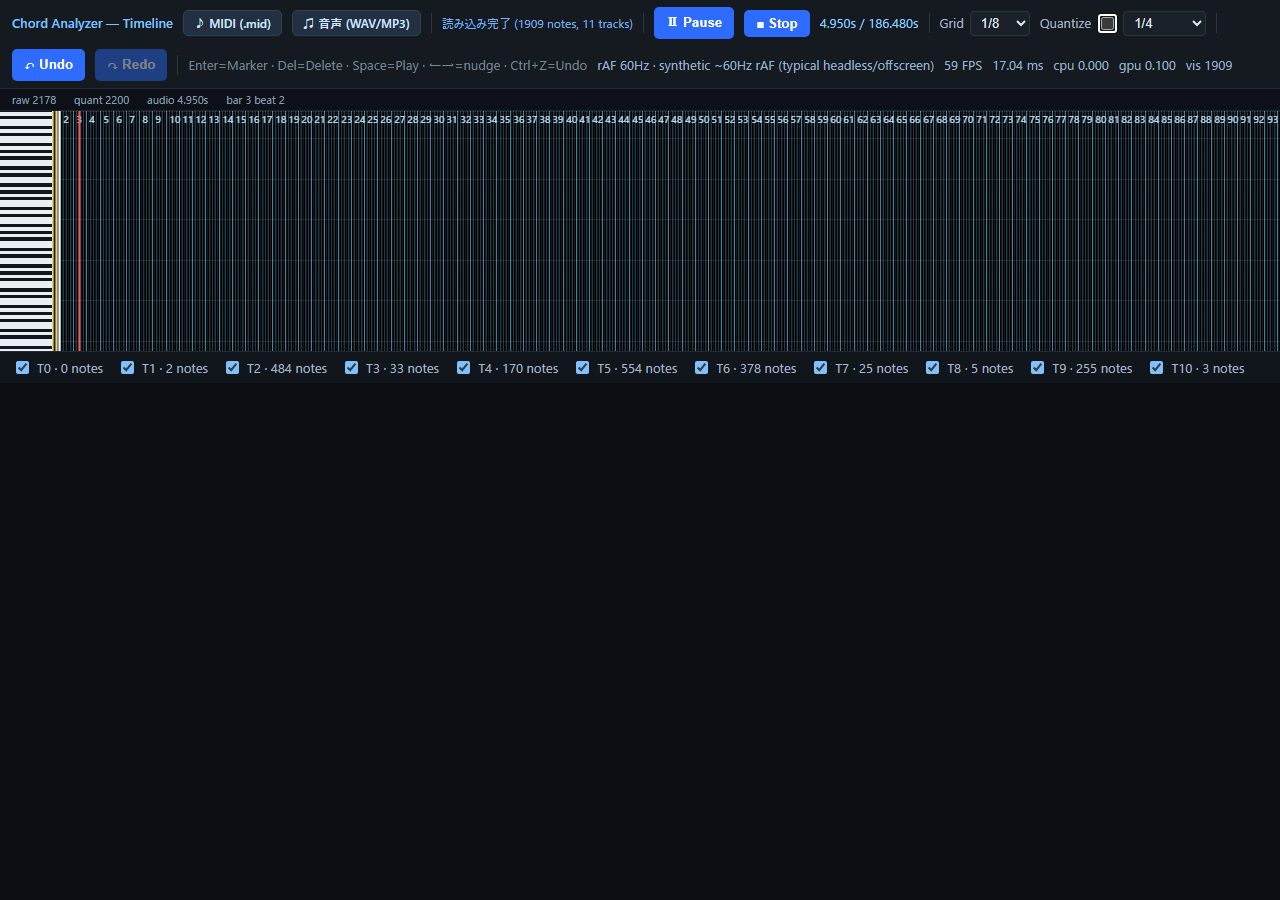
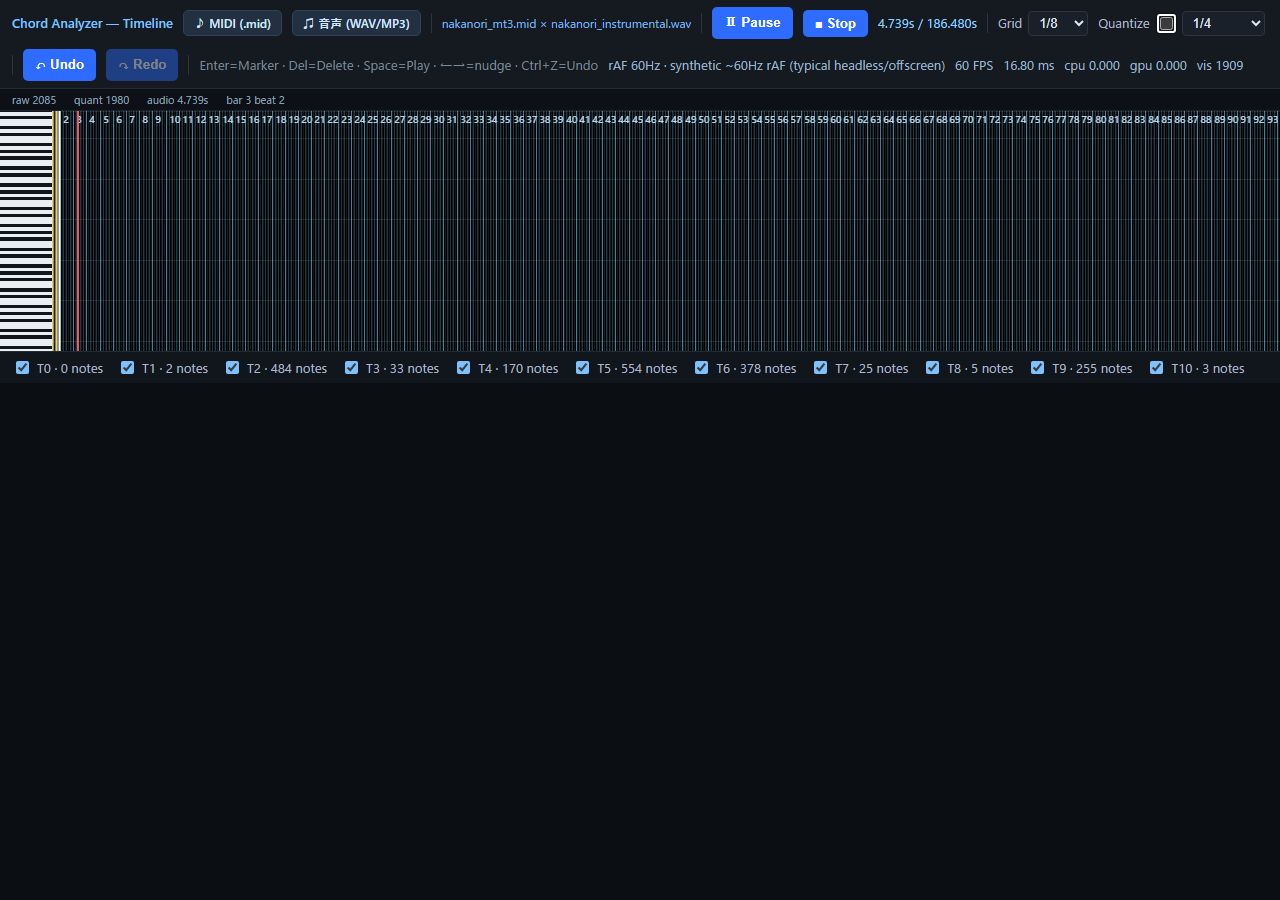
Phase4.2:クリップ

Changed region(s): [[0.0, 0.0, 0.9688, 0.0933]]

diff --git a/dist/assets/index-DIR23VNI.js b/dist/assets/index-DIR23VNI.js
@@ -1,0 +1,78 @@
+(function(){let e=document.createElement(`link`).relList;if(e&&e.supports&&e.supports(`modulepreload`))return;for(let e of document.querySelectorAll(`link[rel="modulepreload"]`))n(e);new MutationObserver(e=>{for(let t of e)if(t.type===`childList`)for(let e of t.addedNodes)e.tagName===`LINK`&&e.rel===`modulepreload`&&n(e)}).observe(document,{childList:!0,subtree:!0});function t(e){let t={};return e.integrity&&(t.integrity=e.integrity),e.referrerPolicy&&(t.referrerPolicy=e.referrerPolicy),t.credentials=e.crossOrigin===`use-credentials`?`include`:e.crossOrigin===`anonymous`?`omit`:`same-origin`,t}function n(e){if(e.ep)return;e.ep=!0;let n=t(e);fetch(e.href,n)}})();var e=class extends Error{constructor(e){super(e),this.name=`MidiParseError`}},t=class{bytes;view;p=0;constructor(e){this.bytes=e,this.view=new DataView(e.buffer,e.byteOffset,e.byteLength)}get pos(){return this.p}set pos(e){this.p=e}eof(){return this.p>=this.bytes.length}need(t,n){if(this.p+t>this.bytes.length)throw new e(`Unexpected end reading ${n}`)}u8(){return this.need(1,`u8`),this.bytes[this.p++]}u16(){this.need(2,`u16`);let e=this.view.getUint16(this.p);return this.p+=2,e}u32(){this.need(4,`u32`);let e=this.view.getUint32(this.p);return this.p+=4,e}vlq(){let e=0;for(let t=0;t<4;t++){let t=this.u8();if(e=e<<7|t&127,!(t&128))return e}return this.u8(),e&268435455}bytesN(e){this.need(e,`bytes`);let t=this.bytes.subarray(this.p,this.p+e);return this.p+=e,t}};function n(e){let t=e.vlq(),n=e.bytesN(t);try{return new TextDecoder(`utf-8`,{fatal:!1}).decode(n)}catch{return``}}function r(e,t){let n={};switch(e){case 81:t.length>=3&&(n.tempo=t[0]<<16|t[1]<<8|t[2]);break;case 88:t.length>=4&&(n.timeSig={tick:0,numerator:t[0],denominatorPower:t[1],clocksPerClick:t[2],notated32nd:t[3]})}return n}function i(i){let a=new t(i);if(a.u32()!==1297377380)throw new e(`Missing MThd header`);let o=a.u32();if(o<6)throw new e(`Invalid MThd length`);let s=a.u16();if(s>2)throw new e(`Unsupported SMF format ${s}`);let c=a.u16(),l=a.u16();a.pos=8+o;let u;if(l&32768){let e=l&255,t=l>>8&255;u=e>0?e*t:96}else u=l&32767;if(u<=0)throw new e(`Invalid PPQ division`);let d=[],f=[],p=[],m=[],h=0;for(let t=0;t<c&&!(a.eof()||a.u32()!==1297379947);t++){let i=a.u32(),o=a.pos+i,s={index:t,name:``,programsByChannel:new Map,noteCount:0,isPercussion:!1,channels:new Set},c=0,l=0,u=new Map;for(;a.pos<o;){l+=a.vlq();let i=a.u8();if(!(i&128)){if(c===0)throw new e(`Running status before first event`);--a.pos,i=c}if(i===255){let e=a.u8();if(e===3){let e=n(a);e&&(s.name=e)}else{let t=a.vlq(),n=r(e,a.bytesN(t));n?.tempo!==void 0&&p.push({tick:l,tempo:n.tempo}),n?.timeSig&&(n.timeSig.tick=l,m.push(n.timeSig))}c=0;continue}if(i===240||i===247){let e=a.vlq();a.bytesN(e),c=0;continue}if(i<240){let e=i&240,n=i&15;if(e===144||e===128){let r=a.u8(),o=a.u8(),d=`${n}:${r}`;if(e===144&&o>0){let e=u.get(d);e||(e=[],u.set(d,e)),e.push({start:l,vel:o})}else{let e=u.get(d);if(e&&e.length>0){let i=e.shift();l>i.start&&(f.push({startTick:i.start,endTick:l,pitch:r,velocity:i.vel,channel:n,track:t}),h=Math.max(h,l),s.noteCount++,s.channels.add(n),n===9&&(s.isPercussion=!0))}}c=i}else if(e===192){let e=a.u8();s.programsByChannel.set(n,e),c=i}else{let t=e===208?1:2;a.bytesN(t),c=i}}else c=i}for(let[e,n]of u){if(n.length===0)continue;let r=e.indexOf(`:`),i=Number(e.slice(0,r)),a=Number(e.slice(r+1));for(let e of n)f.push({startTick:e.start,endTick:e.start+1,pitch:a,velocity:e.vel,channel:i,track:t}),s.noteCount++,s.channels.add(i),i===9&&(s.isPercussion=!0)}d.push(s)}return f.sort((e,t)=>e.startTick-t.startTick||e.track-t.track||e.pitch-t.pitch),f.length&&(h=Math.max(h,f[f.length-1].startTick+1)),{format:s,ppq:u,tempos:p,timeSignatures:m,tracks:d,notes:f,durationTicks:h}}function a(e){let t=Array.isArray(e)?e:e.notes,n=t.length,r=new Float32Array(n),i=new Float32Array(n),a=new Float32Array(n),o=new Float32Array(n),s=new Float32Array(n),c=new Float32Array(n),l=new Int32Array(n),u=1/0,d=-1/0,f=0,p=new Set;for(let e=0;e<n;e++){let n=t[e];r[e]=n.startTick,i[e]=n.endTick,a[e]=n.pitch,o[e]=n.velocity/127,s[e]=n.track,c[e]=n.channel,l[e]=e,p.add(n.track),n.startTick<u&&(u=n.startTick),n.endTick>d&&(d=n.endTick);let m=n.endTick-n.startTick;m>f&&(f=m)}if(n===0&&(u=0,d=0),t.length>1){let e=Array.from(l);e.sort((e,t)=>r[e]-r[t]||s[e]-s[t]||a[e]-a[t]),l.set(e)}let m=Array.from(p).sort((e,t)=>e-t),h=new Int32Array(m.length),g=-1;for(let e=0;e<n;e++){let t=s[l[e]];t!==g&&(g=t,h[m.indexOf(t)]=e)}let ee=m.length;return{startTicks:r,endTicks:i,pitches:a,velocities:o,tracks:s,channels:c,order:l,count:n,minTick:u,maxTick:d<0?0:d,maxDur:f===1/0?0:f,trackStartOrder:h,trackCount:ee}}var o=`#version 300 es
+precision highp float;
+layout(location=0) in vec2 aQuad;   // unit quad 0..1
+layout(location=1) in vec4 aRect;   // (startTick, endTick, pitch, velocity01)
+uniform float uPxPerTick;
+uniform float uScrollTick;   // tick at left edge of viewport
+uniform float uPxPerPitch;
+uniform float uTopPitch;     // pitch (MIDI number) at top edge
+uniform vec2  uViewport;     // canvas size in px
+out vec3 vColor;
+void main() {
+  float x  = mix(aRect.x, aRect.y, aQuad.x);
+  float px = (x - uScrollTick) * uPxPerTick;
+  float py = (aRect.z - uTopPitch) * uPxPerPitch;
+  vec2 n = vec2(px, py) / uViewport * 2.0 - vec2(1.0, 1.0);
+  gl_Position = vec4(n.x, -n.y, 0.0, 1.0); // y down in canvas -> flip so pitch up
+  vColor = vec3(0.30, 0.75, 1.00) * (0.45 + 0.55 * aRect.w);
+}
+`,s=`#version 300 es
+precision highp float;
+in vec3 vColor;
+out vec4 fragColor;
+void main(){ fragColor = vec4(vColor, 1.0); }
+`,c=new Float32Array([0,0,1,0,0,1,0,1,1,0,1,1]);function l(e,t){let n=e.order,r=e.startTicks,i=e.count,a=0,o=i;for(;a<o;){let e=a+o>>1;r[n[e]]<t?a=e+1:o=e}return a}var u=class{gl;cpuUpdateMs=0;drawMs=0;lastVisible=0;lastUploadBytes=0;program;uniforms={};vao;quadVbo;instVbo;scratch=new Float32Array;scratchCap=0;lastVisibleUploaded=-1;constructor(e){this.gl=e,this.program=this.link();for(let t of[`uPxPerTick`,`uScrollTick`,`uPxPerPitch`,`uTopPitch`,`uViewport`])this.uniforms[t]=e.getUniformLocation(this.program,t);this.vao=e.createVertexArray(),e.bindVertexArray(this.vao),this.quadVbo=e.createBuffer(),e.bindBuffer(e.ARRAY_BUFFER,this.quadVbo),e.bufferData(e.ARRAY_BUFFER,c,e.STATIC_DRAW),e.enableVertexAttribArray(0),e.vertexAttribPointer(0,2,e.FLOAT,!1,8,0),this.instVbo=e.createBuffer(),e.bindBuffer(e.ARRAY_BUFFER,this.instVbo),e.bufferData(e.ARRAY_BUFFER,65536,e.DYNAMIC_DRAW),e.enableVertexAttribArray(1),e.vertexAttribPointer(1,4,e.FLOAT,!1,16,0),e.vertexAttribDivisor(1,1),e.bindVertexArray(null)}compile(e,t){let n=this.gl,r=n.createShader(e);if(n.shaderSource(r,t),n.compileShader(r),!n.getShaderParameter(r,n.COMPILE_STATUS))throw Error(`shader: `+n.getShaderInfoLog(r));return r}link(){let e=this.gl,t=this.compile(e.VERTEX_SHADER,o),n=this.compile(e.FRAGMENT_SHADER,s),r=e.createProgram();if(e.attachShader(r,t),e.attachShader(r,n),e.linkProgram(r),!e.getProgramParameter(r,e.LINK_STATUS))throw Error(`link: `+e.getProgramInfoLog(r));return e.deleteShader(t),e.deleteShader(n),r}uploadNotes(e){this.lastVisibleUploaded=-1}trackVisible=null;setTrackVisibility(e){this.trackVisible=e,this.lastVisibleUploaded=-1}cull(e,t,n){let r=e.order,i=e.startTicks,a=e.endTicks,o=this.trackVisible,s=l(e,t-e.maxDur),c=l(e,n+1e-9),u=0,d=this.scratch;for(let n=s;n<c;n++){let s=r[n];if(a[s]<t||o&&!o[e.tracks[s]])continue;let c=u*4;d[c+0]=i[s],d[c+1]=a[s],d[c+2]=e.pitches[s],d[c+3]=e.velocities[s],u++}return this.lastVisible=u,u}draw(e,t){let n=this.gl,r=t.scrollStartTick,i=r+t.viewportWidth/t.pxPerTick,a=l(e,r-e.maxDur),o=(l(e,i+1e-9)-a)*4;o>this.scratchCap&&(this.scratchCap=Math.max(this.scratchCap*2,o,4096),this.scratch=new Float32Array(this.scratchCap));let s=performance.now(),c=this.cull(e,r,i);this.cpuUpdateMs=performance.now()-s,(c!==this.lastVisibleUploaded||c===0)&&(c>0&&(n.bindBuffer(n.ARRAY_BUFFER,this.instVbo),n.bufferSubData(n.ARRAY_BUFFER,0,this.scratch.subarray(0,c*4),0),this.lastUploadBytes=c*16),this.lastVisibleUploaded=c);let u=performance.now();n.useProgram(this.program),n.uniform1f(this.uniforms.uPxPerTick,t.pxPerTick),n.uniform1f(this.uniforms.uScrollTick,t.scrollStartTick),n.uniform1f(this.uniforms.uPxPerPitch,t.pxPerPitch),n.uniform1f(this.uniforms.uTopPitch,t.topPitch),n.uniform2f(this.uniforms.uViewport,t.viewportWidth,t.viewportHeight),n.bindVertexArray(this.vao),n.viewport(0,0,t.viewportWidth,t.viewportHeight),c>0&&n.drawArraysInstanced(n.TRIANGLES,0,6,c),n.bindVertexArray(null),this.drawMs=performance.now()-u}},d=class{arrayBuffer;onEnded;ctx=null;buffer=null;source=null;baseOffset=0;scheduledAt=0;_playing=!1;get playing(){return this._playing}set playing(e){this._playing=e}constructor(e){this.arrayBuffer=e}ensureCtx(){if(this.ctx)return this.ctx;let e=window.AudioContext??window.webkitAudioContext;return this.ctx=new e({latencyHint:`interactive`}),this.ctx}async load(){let e=this.ensureCtx();e.state===`suspended`&&e.resume().catch(()=>{});let t=this.arrayBuffer.slice(0);this.buffer=await e.decodeAudioData(t)}clockPosition(){if(!this.ctx||!this.playing||!this.source)return this.baseOffset;let e=this.ctx.currentTime;return this.baseOffset+(e-this.scheduledAt)-this.outputLatencyOf()}outputLatencyOf(){return this.ctx.outputLatency||0}spawn(){let e=this.ctx;this.source=e.createBufferSource(),this.source.buffer=this.buffer;let t=e.createGain();t.gain.value=1,this.source.connect(t),t.connect(e.destination),this.source.onended=()=>{this.source=null,this.playing&&=!1,this.onEnded?.()}}play(){if(!this.buffer||!this.ctx)return;let e=this.ctx;e.state===`suspended`&&e.resume(),this.source&&this.source.stop(),this.spawn(),this.scheduledAt=e.currentTime+.05,this.source.start(this.scheduledAt,this.baseOffset),this.playing=!0}pause(){!this.playing||!this.source||!this.ctx||(this.baseOffset=Math.max(0,Math.min(this.duration,this.clockPosition())),this.source.stop(),this.source=null,this.playing=!1)}stop(){this.source&&=(this.source.stop(),null),this.baseOffset=0,this.playing=!1}seek(e){if(this.baseOffset=Math.max(0,Math.min(this.duration,e)),this.playing){this.source?.stop(),this.source=null,this.spawn();let e=this.ctx;this.scheduledAt=e.currentTime+.05,this.source.start(this.scheduledAt,this.baseOffset)}}getPositionSeconds(){return Math.max(0,Math.min(this.duration,this.clockPosition()))}getSnapshot(){return{positionSeconds:this.getPositionSeconds(),playing:this.playing,durationSeconds:this.duration}}get duration(){return this.buffer?.duration??0}get loaded(){return this.buffer!==null}dispose(){this.source&&=(this.source.stop(),null),this.ctx&&this.ctx.close(),this.ctx=null}};function f(e){let t=e.ppq>0?e.ppq:480,n=[...e.tempos].sort((e,t)=>e.tick-t.tick),r=[],i=[];if(n.length&&n[0].tick===0){r.push(0),i.push(n[0].tempo);for(let e=1;e<n.length;e++)n[e].tick>n[e-1].tick&&(r.push(n[e].tick),i.push(n[e].tempo))}else{r.push(0),i.push(n.length?n[0].tempo:5e5);for(let e of n)e.tick>0&&(r.push(e.tick),i.push(e.tempo))}let a=Array(r.length).fill(0);for(let e=1;e<r.length;e++){let n=r[e]-r[e-1];a[e]=a[e-1]+n/t*(i[e-1]/1e6)}let o=0;if(r.length===1)o=e.durationTicks/t*(i[0]/1e6);else{let n=r.length-1;o=a[n]+(e.durationTicks-r[n])/t*(i[n]/1e6)}let s=i.every(e=>e===i[0]);return{boundaryTicks:r,tempos:i,cumSeconds:a,ppq:t,durationTicks:e.durationTicks,durationSeconds:o,constantTempo:s?i[0]:null,defaultTempo:i[0]}}function p(e,t){let n=e.boundaryTicks,r=0,i=n.length-1;for(;r<i;){let e=r+i+1>>1;n[e]<=t?r=e:i=e-1}return r}function m(e,t){if(e.constantTempo!==null)return t/e.ppq*(e.constantTempo/1e6);let n=Math.max(0,Math.min(e.durationTicks,t)),r=p(e,n);return e.cumSeconds[r]+(n-e.boundaryTicks[r])/e.ppq*(e.tempos[r]/1e6)}function h(e,t){let n=Math.max(0,Math.min(e.durationSeconds,t));if(e.constantTempo!==null)return Math.round(n*e.ppq*1e6/e.constantTempo);for(let t=e.boundaryTicks.length-1;t>=0;t--){let r=e.cumSeconds[t];if(n>=r){let i=n-r,a=e.boundaryTicks[t]+Math.round(i*e.ppq*1e6/e.tempos[t]);return Math.max(0,a)}}return 0}function g(e,t,n,r){let i=Math.max(1,n),a=t,o=a*i,s=e/a,c=Math.floor(s/i)*i,l=Math.floor(s)%i;return{bar:Math.floor(s/i)+1,beat:l+1,beatTick:Math.floor(e%a),barStartTick:Math.round(c*a),ticksPerBar:o}}function ee(e=4,t=2,n=480,r=8){return{numerator:e,denominatorPower:t,ppq:n,divisionsPerBar:r}}function _(e,t,n){let r=[],i=e.ppq,a=Math.max(1,e.numerator),o=i*a,s=Math.max(1,Math.round(o/Math.max(1,e.divisionsPerBar))),c=Math.floor(t/o)*o;for(let e=c;e<n;e+=s){let t=(e%o+o)%o,n=g(e,i,a,2),c;c=t===0?`bar`:t%i===0?`beat`:`division`,r.push({tick:e,kind:c,bar:n.bar,beat:n.beat}),t!==0&&t+s>o&&(e+=o-t-s)}return v(r)}function v(e){let t=[],n=-1;for(let r of e)r.tick!==n&&(n=r.tick,t.push(r));return t}function y(e={}){return{scrollTick:e.scrollTick??0,pxPerTick:e.pxPerTick??1,topPitch:e.topPitch??127,pxPerPitch:e.pxPerPitch??8}}function b(e,t){return(t-e.scrollTick)*e.pxPerTick}function te(e,t){let n=e.scrollTick+t/e.pxPerTick;return n<0?0:n}function x(e,t){let n=(e.topPitch-t)*e.pxPerPitch;return n<0&&(n=0),n}function ne(e,t){return e.topPitch-t/e.pxPerPitch}function re(e,t){let n=Math.max(1,t.ppq),r;if(e===`1/4`)r=n;else if(e===`1/8`)r=n/2;else if(e===`1/16`)r=n/4;else if(e===`1/32`)r=n/8;else{let i=Math.max(1,Math.round(e.barDivisions));r=n*Math.max(1,t.numerator)/i}return Math.max(1,Math.round(r))}function S(e,t,n){let r=re(t,n);return{rawTick:e,quantizedTick:Math.max(0,Math.round(Math.max(0,Math.round(e))/r)*r)}}function ie(e){return e===`1/4`?`1/4`:e===`1/8`?`1/8`:e===`1/16`?`1/16`:e===`1/32`?`1/32`:`bar/${e.barDivisions}`}var C={ppq:480,numerator:4};function w(e,t,n,r=C){let i=S(t,n.division,r).quantizedTick;return{id:e,rawTick:t,quantizedTick:n.enabled?i:t,quantizeEnabled:n.enabled,quantizeDivision:n.division}}function T(e,t,n=C){let r=S(e.rawTick,t.division,n).quantizedTick;return{...e,quantizedTick:t.enabled?r:e.rawTick,quantizeEnabled:t.enabled,quantizeDivision:t.division}}function ae(e){if(e.length<2)return[];let t=[...e].sort((e,t)=>E(e)-E(t)),n=[];for(let e=0;e<t.length-1;e++){let r=t[e],i=t[e+1];n.push({id:e,startTick:E(r),endTick:E(i),startMarkerId:r.id,endMarkerId:i.id})}return n}function E(e){return e.quantizeEnabled?e.quantizedTick:e.rawTick}var D={barLine:`rgba(120,210,255,0.60)`,beatLine:`rgba(120,210,255,0.28)`,divLine:`rgba(120,210,255,0.12)`,barText:`rgba(210,235,255,0.95)`,playhead:`rgba(255,90,95,0.95)`,octaveLine:`rgba(255,255,255,0.10)`,keyBg:`#0c1620`,whiteKey:`#e9eef5`,blackKey:`#11161d`,marker:`rgba(255,214,120,0.95)`,markerSelected:`rgba(255,255,255,1)`,region:`rgba(120,210,120,0.18)`};function oe(e,t,n,r,i,a=D){e.clearRect(0,0,t.viewportWidth,t.viewportHeight);let o=_(n,Math.floor(r.left),Math.ceil(r.right));e.lineWidth=1;for(let n of o){let r=Math.round(b(t,n.tick))+.5;r<-1||r>t.viewportWidth+1||(e.strokeStyle=n.kind===`bar`?a.barLine:n.kind===`beat`?a.beatLine:a.divLine,e.beginPath(),e.moveTo(r,0),e.lineTo(r,t.viewportHeight),e.stroke(),n.kind===`bar`&&(e.fillStyle=a.barText,e.font=`10px system-ui`,e.fillText(String(n.bar),r+3,12)))}let s=t.topPitch,c=t.topPitch-t.viewportHeight/t.pxPerPitch,l=Math.floor(Math.min(s,c)/12)*12,u=Math.ceil(Math.max(s,c)/12)*12;for(let n=l;n<=u;n+=12){if(n<0||n>127)continue;let r=x(t,n);e.strokeStyle=a.octaveLine,e.beginPath(),e.moveTo(0,Math.round(r)+.5),e.lineTo(t.viewportWidth,Math.round(r)+.5),e.stroke()}let d=b(t,i);e.strokeStyle=a.playhead,e.lineWidth=2,e.beginPath(),e.moveTo(d,0),e.lineTo(d,t.viewportHeight),e.stroke()}function se(e,t,n,r,i,a=D){e.fillStyle=a.region;for(let n of r){let r=b(t,n.startTick),i=b(t,n.endTick);i<0||r>t.viewportWidth||e.fillRect(r,0,Math.max(1,i-r),t.viewportHeight)}e.lineWidth=2;for(let r of n){let n=E(r),o=Math.round(b(t,n))+.5;o<-2||o>t.viewportWidth+2||(e.strokeStyle=r.id===i?a.markerSelected:a.marker,e.beginPath(),e.moveTo(o,0),e.lineTo(o,t.viewportHeight),e.stroke())}}function ce(e,t,n=D){let r=e.getContext(`2d`);if(!r)return;let i=e.width,a=e.height;r.clearRect(0,0,i,a),r.fillStyle=n.keyBg,r.fillRect(0,0,i,a);let o=t.topPitch,s=o-a/t.pxPerPitch,c=Math.floor(Math.min(o,s)),l=Math.ceil(Math.max(o,s)),u=[1,3,6,8,10];for(let e=l;e>=c;e--){let a=x(t,e);r.fillStyle=!(e<0)&&u.includes(e%12)?n.blackKey:n.whiteKey,r.fillRect(0,Math.round(a)-Math.round(t.pxPerPitch/2),i,Math.ceil(t.pxPerPitch)+1)}}var le=class{times;index=0;count=0;constructor(e=8192){this.times=new Float64Array(e)}reset(){this.index=0,this.count=0}push(e){this.times[this.index]=e,this.index=(this.index+1)%this.times.length,this.count<this.times.length&&this.count++}snapshot(){let e=new Float64Array(this.count);if(this.count===0)return e;let t=this.count<this.times.length?0:this.index;for(let n=0;n<this.count;n++)e[n]=this.times[(t+n)%this.times.length];return e}p(e){let t=this.count;if(t===0)return 0;let n=[...this.snapshot()].sort((e,t)=>e-t),r=Math.floor(e*(t-1));return n[Math.max(0,Math.min(t-1,r))]}lowK(e){let t=this.count;if(t===0)return 0;let n=[...this.snapshot()].sort((e,t)=>e-t),r=Math.min(t-1,Math.floor((1-e/100)*t));return n[Math.max(0,r)]}mean(){if(this.count===0)return 0;let e=0;for(let t=0;t<this.count;t++)e+=this.times[t];return e/this.count}max(){let e=0;for(let t=0;t<this.count;t++)this.times[t]>e&&(e=this.times[t]);return e}get size(){return this.count}computeStats(){return{frames:this.count,avgFps:this.count?1e3/this.mean():0,avgMs:this.mean(),p1LowMs:this.lowK(1),p01LowMs:this.lowK(.1),p50Ms:this.p(.5),p99Ms:this.p(.99),maxMs:this.max()}}},ue=240;function de(){let e=[],t=performance.now(),n=0,r=!0,i=a=>{if(!r)return;let o=a-t;t=a,o>0&&o<100&&e.push(o),e.length>ue&&e.shift(),n=requestAnimationFrame(i)};return n=requestAnimationFrame(i),{stop:()=>{r=!1,cancelAnimationFrame(n)},stats:()=>{if(e.length===0)return{observedHz:0,medianMs:0,p95Ms:0,sampleCount:0,notes:`no samples yet`};let t=[...e].sort((e,t)=>e-t),n=t[Math.floor(t.length/2)],r=t[Math.min(t.length-1,Math.floor(t.length*.95))];return{observedHz:1e3/(e.reduce((e,t)=>e+t,0)/e.length),medianMs:Number(n.toFixed(2)),p95Ms:Number(r.toFixed(2)),sampleCount:e.length,notes:fe(n)}}}}function fe(e){return e<10.5?`display-driven rAF (~display refresh >60Hz)`:e<18?`synthetic ~60Hz rAF (typical headless/offscreen)`:`irregular rAF (VSync off / blocked main thread)`}var pe=class{layout={enabled:!0,division:{barDivisions:8}};markers=[];selectedId=null;nextId=1;undoStack=[];redoStack=[];get canUndo(){return this.undoStack.length>0}get canRedo(){return this.redoStack.length>0}get undoDepth(){return this.undoStack.length}addMarker(e){let t=this.nextId++,n=w(t,e,this.layout,C);return this.markers.push(n),this.selectedId=t,this.undoStack.push({kind:`add`,marker:n}),this.redoStack=[],n}deleteMarker(e){let t=this.markers.findIndex(t=>t.id===e);if(t<0)return!1;let n=this.markers[t];return this.markers.splice(t,1),this.selectedId===e&&(this.selectedId=null),this.undoStack.push({kind:`delete`,marker:n,at:t}),this.redoStack=[],!0}select(e){this.selectedId=e}moveMarker(e,t){let n=this.markers.findIndex(t=>t.id===e);if(n<0)return;let r=this.markers[n];this.markers[n]=T({...r,rawTick:t},this.layout,C),this.undoStack.push({kind:`move`,id:e,fromRaw:r.rawTick,toRaw:t}),this.redoStack=[]}setLayout(e){let t=this.layout;me(t,e)||(this.layout={...e},this.markers=this.markers.map(t=>e.enabled?T(t,e,C):{...t,quantizeEnabled:!1,quantizedTick:t.rawTick}),this.undoStack.push({kind:`changeQuantize`,previous:t,next:{...e}}),this.redoStack=[])}undo(){let e=this.undoStack.pop();if(!e)return!1;switch(e.kind){case`add`:{let t=this.markers.findIndex(t=>t.id===e.marker.id);t>=0&&this.markers.splice(t,1),this.selectedId===e.marker.id&&(this.selectedId=null);break}case`delete`:this.markers.splice(e.at,0,e.marker),this.selectedId=e.marker.id;break;case`move`:this.markers=this.markers.map(t=>t.id===e.id?T({...t,rawTick:e.fromRaw},this.layout,C):t);break;case`changeQuantize`:this.layout={...e.previous},this.markers=this.markers.map(t=>e.previous.enabled?T(t,this.layout,C):{...t,quantizeEnabled:!1,quantizedTick:t.rawTick})}return this.redoStack.push(e),!0}redo(){let e=this.redoStack.pop();if(!e)return!1;switch(e.kind){case`add`:this.markers.push(e.marker),this.selectedId=e.marker.id;break;case`delete`:{let t=this.markers.findIndex(t=>t.id===e.marker.id);t>=0&&this.markers.splice(t,1);break}case`move`:this.markers=this.markers.map(t=>t.id===e.id?T({...t,rawTick:e.toRaw},this.layout,C):t);break;case`changeQuantize`:this.layout={...e.next},this.markers=this.markers.map(t=>e.next.enabled?T(t,this.layout,C):{...t,quantizeEnabled:!1,quantizedTick:t.rawTick})}return this.undoStack.push(e),!0}clear(){this.markers=[],this.selectedId=null,this.nextId=1,this.undoStack=[],this.redoStack=[]}};function me(e,t){return e.enabled===t.enabled?e.division===t.division?!0:typeof e.division==`string`||typeof t.division==`string`?e.division===t.division:e.division.barDivisions===t.division.barDivisions:!1}var he=34,ge=103;function _e(e){e.innerHTML=`
+    <div id="wrap">
+      <div id="topbar">
+        <span class="brand">Chord Analyzer — Timeline</span>
+        <label class="btn-file">♪ MIDI (.mid)
+          <input type="file" id="midiFile" accept=".mid,.midi,.smf,audio/midi,audio/x-midi" />
+        </label>
+        <label class="btn-file">♫ 音声 (WAV/MP3)
+          <input type="file" id="audioFile" accept=".wav,.mp3,.ogg,.flac,.m4a,audio/*" />
+        </label>
+        <span class="sep"></span>
+        <span id="loadStatus">MIDI / 音声ファイルを選択してください</span>
+        <span class="sep"></span>
+        <button id="playBtn" disabled>▶ Play</button>
+        <button id="stopBtn" disabled>■ Stop</button>
+        <span id="pos">0.000s / 0.000s</span>
+        <span class="sep"></span>
+        <label>Grid <select id="gridSel">
+          <option value="4">1/4</option><option value="8" selected>1/8</option>
+          <option value="16">1/16</option><option value="32">1/32</option>
+        </select></label>
+        <label>Quantize
+          <input type="checkbox" id="quantToggle" checked />
+          <select id="quantSel">
+            <option value="bar/8" selected>1 bar / 8</option>
+            <option value="1/4">1/4</option>
+            <option value="1/8">1/8</option>
+            <option value="1/16">1/16</option>
+            <option value="1/32">1/32</option>
+          </select>
+        </label>
+        <span class="sep"></span>
+        <button id="undoBtn" disabled>↶ Undo</button>
+        <button id="redoBtn" disabled>↷ Redo</button>
+        <span class="sep"></span>
+        <span class="keyhint">Enter=Marker · Del=Delete · Space=Play · ←→=nudge · Ctrl+Z=Undo</span>
+        <span id="raf">rAF —</span>
+        <span id="fps">— FPS</span>
+        <span id="fr">— ms</span>
+        <span id="cpu">cpu —</span>
+        <span id="gpu">gpu —</span>
+        <span id="vis">vis —</span>
+      </div>
+      <div id="debugbar">
+        <span class="dbg" id="dbgRaw">raw —</span>
+        <span class="dbg" id="dbgQuant">quant —</span>
+        <span class="dbg" id="dbgAudio">audio —</span>
+        <span class="dbg" id="dbgBar">bar/beat —</span>
+      </div>
+      <div id="stage">
+        <div id="pianoWrap"><canvas id="piano"></canvas></div>
+        <div id="timelineWrap"><canvas id="gl"></canvas><canvas id="overlay"></canvas></div>
+      </div>
+      <div id="trackbar"></div>
+    </div>`;let t=t=>e.querySelector(`#`+t),n=t(`midiFile`),r=t(`audioFile`),o=t(`loadStatus`),s=t(`playBtn`),c=t(`stopBtn`),l=t(`undoBtn`),p=t(`redoBtn`),_=t(`pos`),v=t(`gl`),b=t(`overlay`),x=t(`piano`),re=t(`topbar`),C=t(`debugbar`),w=t(`trackbar`),T=t(`fps`),E=t(`fr`),D=t(`cpu`),ue=t(`gpu`),fe=t(`vis`),me=t(`raf`),_e=t(`dbgRaw`),ve=t(`dbgQuant`),ye=t(`dbgAudio`),be=t(`dbgBar`),O=t(`quantToggle`),k=t(`quantSel`),xe=t(`gridSel`),A=()=>{let e=t(`wrap`),n=Math.max(200,e.clientWidth-52),r=Math.max(240,e.clientHeight-re.offsetHeight-C.offsetHeight-w.offsetHeight);for(let e of[v,b])e.width=n,e.height=r,e.style.width=n+`px`,e.style.height=r+`px`;x.width=52,x.height=r,x.style.height=r+`px`};A(),window.addEventListener(`resize`,A);let j=v.getContext(`webgl2`,{antialias:!0,alpha:!1});if(!j){s.textContent=`No WebGL2`;return}j.clearColor(.08,.085,.11,1),j.enable(j.BLEND),j.blendFunc(j.SRC_ALPHA,j.ONE_MINUS_SRC_ALPHA);let M=new u(j),N=new le(360),Se=de(),P,F=null,I=null,L=y({scrollTick:0,pxPerTick:.2,topPitch:104,pxPerPitch:6}),R=[],z=0,Ce=8,B=new pe,V=[],H=480,we=()=>({scrollStartTick:L.scrollTick,pxPerTick:L.pxPerTick,topPitch:L.topPitch,pxPerPitch:L.pxPerPitch,viewportWidth:v.width,viewportHeight:v.height}),Te=[];function Ee(e){w.innerHTML=``;for(let t=0;t<e;t++){let e=document.createElement(`label`);e.className=`trackRow`;let n=document.createElement(`input`);n.type=`checkbox`,n.checked=!0;let r=document.createElement(`span`);r.textContent=`T${t} · ${Te[t]??0} notes`,n.addEventListener(`change`,()=>{R[t]=n.checked,M.setTrackVisibility([...R])}),e.append(n,r),w.appendChild(e)}}let De=!1;function Oe(e,t){try{let n=i(new Uint8Array(e));F=f(n),P=a(n.notes),Y=1/0,X=-1/0;for(let e=0;e<P.count;e++){let t=P.pitches[e];t<Y&&(Y=t),t>X&&(X=t)}isFinite(Y)||(Y=he,X=ge),H=n.ppq,R=Array.from({length:n.tracks.length},()=>!0),Te=n.tracks.map(e=>e.noteCount),M.uploadNotes(P),M.setTrackVisibility(R);let r=v.height/(X-Y+2);L=y({scrollTick:P.minTick,pxPerTick:v.width/Math.max(1,P.maxTick-P.minTick),topPitch:X+1,pxPerPitch:r}),L=Z(L),Ee(n.tracks.length),o.textContent=`${t} · ${n.notes.length} notes / ${n.tracks.length} tracks`+(De?``:` · 音声未選択`)}catch(e){console.error(e),o.textContent=`MIDIエラー: `+(e instanceof Error?e.message:String(e))}}async function ke(e,t){try{I=new d(e),await I.load(),I.onEnded=()=>{s.textContent=`▶ Play`},s.disabled=!1,c.disabled=!1,De=!0,o.textContent=(U??`MIDI未選択`)+` × ${t}`}catch(e){console.error(e),o.textContent=`音声エラー: `+(e instanceof Error?e.message:String(e))}}let U=null;async function Ae(e){return await e.arrayBuffer()}n.addEventListener(`change`,async()=>{let e=n.files?.[0];if(!e)return;let t=await Ae(e);U=e.name,Oe(t,e.name)}),r.addEventListener(`change`,async()=>{let e=r.files?.[0];e&&ke(await Ae(e),e.name)}),U=`default (./data/nakanori_mt3.mid)`,fetch(`./data/nakanori_mt3.mid`).then(e=>e.ok?e.arrayBuffer():Promise.reject(Error(`default midi: HTTP `+e.status))).then(e=>Oe(e,`default`)).catch(e=>{o.textContent=`MIDI要選択: `+(e?.message??e)}),s.addEventListener(`click`,()=>{I?.loaded&&(I.playing?(I.pause(),s.textContent=`▶ Play`):(I.play(),s.textContent=`Ⅱ Pause`))}),c.addEventListener(`click`,()=>{I?.stop(),z=0,s.textContent=`▶ Play`});function je(e){!I?.loaded||!F||(I.seek(m(F,e)),z=e)}function W(){V=ae(B.markers)}function Me(){if(B.selectedId!=null)return B.markers.find(e=>e.id===B.selectedId)}function G(){l.disabled=!B.canUndo,p.disabled=!B.canRedo}function Ne(){if(!I?.loaded||!F)return;let e=I.getPositionSeconds(),t=h(F,e);B.addMarker(t),W(),G()}function Pe(){B.selectedId!=null&&(B.deleteMarker(B.selectedId),W(),G())}function K(e){if(B.selectedId==null)return;let t=Me();t&&(B.moveMarker(t.id,t.rawTick+e*24),W(),G())}function Fe(){B.undo()&&(W(),G())}function Ie(){B.redo()&&(W(),G())}let q={enabled:!0,division:{barDivisions:8}};function Le(){let e=k.value;return e===`bar/8`?{barDivisions:8}:e===`1/4`?`1/4`:e===`1/8`?`1/8`:e===`1/16`?`1/16`:`1/32`}function Re(){B.setLayout({enabled:q.enabled,division:q.division}),W(),G()}O.addEventListener(`change`,()=>{q.enabled=O.checked,Re()}),k.addEventListener(`change`,()=>{q.division=Le(),Re()});let J={x:0,y:0,down:!1,moved:!1},Y=he,X=ge;function Z(e){if(!P)return e;let t=e.topPitch,n=Math.max(e.pxPerPitch,1e-4),r=t-v.height/n,i=e.topPitch,a=Y-2,o=X+2;return r<a?i=a+v.height/n:t>o&&(i=o),{...e,topPitch:i}}v.addEventListener(`pointerdown`,e=>{J.x=e.clientX,J.y=e.clientY,J.down=!0,J.moved=!1,v.setPointerCapture(e.pointerId)}),v.addEventListener(`pointermove`,e=>{if(!J.down)return;let t=e.clientX-J.x,n=e.clientY-J.y;Math.abs(t)+Math.abs(n)>3&&(J.moved=!0),J.moved&&(L=Z({...L,scrollTick:L.scrollTick-t/L.pxPerTick,topPitch:L.topPitch+n/L.pxPerPitch}),J.x=e.clientX,J.y=e.clientY)}),v.addEventListener(`pointerup`,e=>{if(J.down&&(J.down=!1,!J.moved)){let t=v.getBoundingClientRect();je(Math.round(te(L,e.clientX-t.left)))}}),v.addEventListener(`wheel`,e=>{e.preventDefault();let t=v.getBoundingClientRect(),n=e.clientX-t.left,r=e.clientY-t.top,i=e.deltaY<0?1.15:1/1.15;if(e.shiftKey){let e=ne(L,r),t=Math.max(.5,Math.min(60,L.pxPerPitch*i));L=Z({...L,pxPerPitch:t,topPitch:e+r/t})}else{let e=te(L,n),t=Math.max(1e-4,Math.min(5,L.pxPerTick*i));L={...L,pxPerTick:t,scrollTick:e-n/t}}}),xe.addEventListener(`change`,e=>{Ce=Number(e.target.value)}),window.addEventListener(`keydown`,e=>{let t=e.target?.tagName;t!==`INPUT`&&t!==`SELECT`&&t!==`TEXTAREA`&&(e.ctrlKey&&(e.key===`z`||e.key===`Z`)?(e.preventDefault(),e.shiftKey?Ie():Fe()):e.key===`Enter`?(e.preventDefault(),Ne()):e.key===`Backspace`||e.key===`Delete`?(e.preventDefault(),Pe()):e.key===` `?(e.preventDefault(),s.click()):e.key===`ArrowLeft`?(e.preventDefault(),K(-1)):e.key===`ArrowRight`&&(e.preventDefault(),K(1)))}),window.__appMonitor=()=>({markers:B.markers.map(e=>({id:e.id,raw:e.rawTick,q:e.quantizedTick,enabled:e.quantizeEnabled})),regions:V.length,quantize:{enabled:B.layout.enabled,division:ie(B.layout.division)},selected:B.selectedId,undoDepth:B.undoDepth,canUndo:B.canUndo,canRedo:B.canRedo,playing:I?.playing??!1,pos:I?.getPositionSeconds()??0});let ze=performance.now(),Q=b.getContext(`2d`),Be=x.getContext(`2d`),$=e=>{let t=e-ze;ze=e,N.push(t);let n=N.computeStats(),r=Se.stats();if(!P||!F){requestAnimationFrame($);return}I?.loaded&&(z=h(F,I.getPositionSeconds()));let i=we();M.draw(P,i);let a={...L,viewportWidth:v.width,viewportHeight:v.height},o={left:a.scrollTick,right:a.scrollTick+a.viewportWidth/a.pxPerTick},s=ee(4,2,H,Ce);oe(Q,a,s,o,z),se(Q,a,B.markers,V,B.selectedId),Be&&ce(x,a);let c=F?m(F,z):0;_.textContent=c.toFixed(3)+`s / `+(F?.durationSeconds??0).toFixed(3)+`s`,T.textContent=n.avgFps.toFixed(0)+` FPS`,E.textContent=n.avgMs.toFixed(2)+` ms`,D.textContent=`cpu `+M.cpuUpdateMs.toFixed(3),ue.textContent=`gpu `+M.drawMs.toFixed(3),fe.textContent=`vis `+M.lastVisible,me.textContent=`rAF `+(r.observedHz>0?r.observedHz.toFixed(0)+`Hz`:`—`)+` · `+r.notes;let l=F?g(z,H,4,2):null;_e.textContent=`raw `+Math.round(z);let u=S(z,B.layout.division,{ppq:H,numerator:4}).quantizedTick;ve.textContent=`quant `+u,ye.textContent=`audio `+c.toFixed(3)+`s`,be.textContent=l?`bar ${l.bar} beat ${l.beat}`:`bar —`,requestAnimationFrame($)};requestAnimationFrame($)}_e(document.getElementById(`app`));

diff --git a/src/app.ts b/src/app.ts
@@ -16,7 +16,7 @@ import { WebGL2NoteRenderer, type RenderView } from './renderer/WebGL2NoteRender
 import { WavAudioSource, type AudioTimelineSource } from './audio/AudioSource';
 import { buildTempoMap, tickToSeconds, secondsToTick, tickToBarBeat, type TempoMap } from './time/timeline';
 import { gridConfig } from './time/grid';
-import { makeCamera, xToTick, yToPitch, type CameraView } from './time/camera';
+import { makeCamera, xToTick, yToPitch, type Camera, type CameraView } from './time/camera';
 import { drawGridAndPlayhead, drawPianoKeys, drawMarkersAndRegions } from './renderer/overlay2d';
 import { FrameTimeHistogram } from './perf/frameStats';
 import { startRafProbe } from './perf/rafDiagnostic';
@@ -173,81 +173,87 @@ export function mount(root: HTMLElement): void {
     }
   }
 
-  // ---- load data from user-selected files ----
-  let midiBuffer: ArrayBuffer | null = null;
-  let audioBuffer: ArrayBuffer | null = null;
-  let midiReady = false;
+  // ---- load data from selected MIDI + audio ----
   let audioReady = false;
 
-  /** Called after both files selected; builds notes + audio, then enables Play. */
-  async function load(): Promise<void> {
-    if (!midiBuffer || !audioBuffer) return;
-    loadStatus.textContent = '読み込み中…';
+  /** Build notes + display from a MIDI buffer. Independent of audio. */
+  function buildMidi(buffer: ArrayBuffer, label: string): void {
     try {
-      const doc = parseMidi(new Uint8Array(midiBuffer));
+      const doc = parseMidi(new Uint8Array(buffer));
       tempoMap = buildTempoMap(doc);
       model = buildNoteModel(doc.notes);
+      // clamp display to the MIDI's actual high/low range
+      pitchMin = Infinity; pitchMax = -Infinity;
+      for (let i = 0; i < model.count; i++) {
+        const p = model.pitches[i];
+        if (p < pitchMin) pitchMin = p;
+        if (p > pitchMax) pitchMax = p;
+      }
+      if (!isFinite(pitchMin)) { pitchMin = MIDI_MIN_PITCH; pitchMax = MIDI_MAX_PITCH; }
       ppq = doc.ppq;
       trackVisible = Array.from({ length: doc.tracks.length }, () => true);
       trackCounts = doc.tracks.map((t) => t.noteCount);
       renderer.uploadNotes(model);
       renderer.setTrackVisibility(trackVisible);
 
-      const fitP = glCanvas.height / ((MIDI_MAX_PITCH - MIDI_MIN_PITCH) + 2);
+      const fitP = glCanvas.height / ((pitchMax - pitchMin) + 2);
       camera = makeCamera({
         scrollTick: model.minTick,
         pxPerTick: glCanvas.width / Math.max(1, model.maxTick - model.minTick),
-        topPitch: MIDI_MAX_PITCH + 1,
+        topPitch: pitchMax + 1,
         pxPerPitch: fitP,
       });
+      camera = clampPitch(camera);
+      renderTracks(doc.tracks.length);
+      loadStatus.textContent = `${label} · ${doc.notes.length} notes / ${doc.tracks.length} tracks` + (audioReady ? '' : ' · 音声未選択');
+    } catch (err) {
+      console.error(err);
+      loadStatus.textContent = 'MIDIエラー: ' + (err instanceof Error ? err.message : String(err));
+    }
+  }
 
-      audio = new WavAudioSource(audioBuffer);
+  /** Decode audio and enable playback. Independent of MIDI. */
+  async function loadAudio(buffer: ArrayBuffer, label: string): Promise<void> {
+    try {
+      audio = new WavAudioSource(buffer);
       await audio.load();
       audio.onEnded = () => { playBtn.textContent = '▶ Play'; };
       playBtn.disabled = false;
       stopBtn.disabled = false;
-      renderTracks(doc.tracks.length);
-      loadStatus.textContent = `読み込み完了 (${doc.notes.length} notes, ${doc.tracks.length} tracks)`;
+      audioReady = true;
+      loadStatus.textContent = (midiStatusLabel ?? 'MIDI未選択') + ` × ${label}`;
     } catch (err) {
       console.error(err);
-      loadStatus.textContent = '読み込みエラー: ' + (err instanceof Error ? err.message : String(err));
+      loadStatus.textContent = '音声エラー: ' + (err instanceof Error ? err.message : String(err));
     }
   }
+  let midiStatusLabel: string | null = null;
 
-  /** TS: arrayBuffer() returns ArrayBuffer; browsers give a view of file bytes. */
   async function fileToBuffer(file: File): Promise<ArrayBuffer> {
-    const ab = await file.arrayBuffer();
-    return ab;
+    return await file.arrayBuffer();
   }
 
   midiInput.addEventListener('change', async () => {
     const f = midiInput.files?.[0];
     if (!f) return;
-    midiBuffer = await fileToBuffer(f);
-    midiReady = true;
-    midiInput.dataset.name = f.name;
-    updateLoadState();
+    const buf = await fileToBuffer(f);
+    midiStatusLabel = f.name;
+    buildMidi(buf, f.name);
   });
 
   audioInput.addEventListener('change', async () => {
     const f = audioInput.files?.[0];
     if (!f) return;
-    audioBuffer = await fileToBuffer(f);
-    audioReady = true;
-    audioInput.dataset.name = f.name;
-    updateLoadState();
+    const buf = await fileToBuffer(f);
+    void loadAudio(buf, f.name);
   });
 
-  function updateLoadState(): void {
-    const m = midiInput.dataset.name || '—';
-    const a = audioInput.dataset.name || '—';
-    if (midiReady && audioReady) {
-      loadStatus.textContent = `${m} × ${a}`;
-      void load();
-    } else {
-      loadStatus.textContent = `MIDI: ${m} · 音声: ${a} ${midiReady && audioReady ? '' : '(両方選択で開始)'}`;
-    }
-  }
+  // Auto-load the bundled default MIDI so notes appear immediately on launch.
+  midiStatusLabel = 'default (./data/nakanori_mt3.mid)';
+  fetch('./data/nakanori_mt3.mid')
+    .then((r) => (r.ok ? r.arrayBuffer() : Promise.reject(new Error('default midi: HTTP ' + r.status))))
+    .then((b) => buildMidi(b, 'default'))
+    .catch((e) => { loadStatus.textContent = 'MIDI要選択: ' + (e?.message ?? e); });
 
   // ---- playback ----
   playBtn.addEventListener('click', () => {
@@ -332,6 +338,26 @@ export function mount(root: HTMLElement): void {
 
   // ---- interaction: click to seek ----
   let pan = { x: 0, y: 0, down: false, moved: false };
+  /** Vertical scroll bounds. Bottom edge is lowest pitch. */
+  const PITCH_MARGIN = 2;
+  let pitchMin = MIDI_MIN_PITCH;
+  let pitchMax = MIDI_MAX_PITCH;
+
+  /** Clamp camera so the visible pitch range never leaves [pitchMin-1, pitchMax+1]. */
+  function clampPitch(cam: Camera): Camera {
+    if (!model) return cam;
+    // visible bottom pitch = topPitch - height/pxPerPitch
+    const topVisible = cam.topPitch;
+    const pxPer = Math.max(cam.pxPerPitch, 1e-4);
+    const visibleBottom = topVisible - glCanvas.height / pxPer;
+    let top = cam.topPitch;
+    const lo = pitchMin - PITCH_MARGIN;
+    const hi = pitchMax + PITCH_MARGIN;
+    // if viewport taller than range, center it so the whole range is always visible
+    if (visibleBottom < lo) top = lo + glCanvas.height / pxPer;
+    else if (topVisible > hi) top = hi;
+    return { ...cam, topPitch: top };
+  }
   glCanvas.addEventListener('pointerdown', (e) => {
     pan.x = e.clientX; pan.y = e.clientY; pan.down = true; pan.moved = false;
     glCanvas.setPointerCapture(e.pointerId);
@@ -341,7 +367,7 @@ export function mount(root: HTMLElement): void {
     const dx = e.clientX - pan.x, dy = e.clientY - pan.y;
     if (Math.abs(dx) + Math.abs(dy) > 3) pan.moved = true;
     if (pan.moved) {
-      camera = { ...camera, scrollTick: camera.scrollTick - dx / camera.pxPerTick, topPitch: camera.topPitch + dy / camera.pxPerPitch };
+      camera = clampPitch({ ...camera, scrollTick: camera.scrollTick - dx / camera.pxPerTick, topPitch: camera.topPitch + dy / camera.pxPerPitch });
       pan.x = e.clientX; pan.y = e.clientY;
     }
   });
@@ -362,7 +388,7 @@ export function mount(root: HTMLElement): void {
     if (e.shiftKey) {
       const anchorPitch = yToPitch(camera, my);
       const np = Math.max(0.5, Math.min(60, camera.pxPerPitch * f));
-      camera = { ...camera, pxPerPitch: np, topPitch: anchorPitch + my / np };
+      camera = clampPitch({ ...camera, pxPerPitch: np, topPitch: anchorPitch + my / np });
     } else {
       const anchorTick = xToTick(camera, mx);
       const npx = Math.max(1e-4, Math.min(5, camera.pxPerTick * f));

diff --git a/scripts/verifyPhase4.ts b/scripts/verifyPhase4.ts
@@ -11,11 +11,19 @@ async function main() {
 
   await page.goto('http://localhost:5173/', { waitUntil: 'networkidle' });
 
-  // load MIDI + WAV via the new file inputs (no auto-fetch anymore)
-  await page.setInputFiles('#midiFile', 'data/nakanori_mt3.mid');
+  // Default MIDI auto-loads on launch; notes should appear without any file pick.
+  await page.waitForFunction(
+    `(document.querySelector('#loadStatus')?.textContent ?? '').includes('notes') && document.querySelector('#vis')?.textContent?.trim() !== 'vis —'`,
+    { timeout: 15000 },
+  );
+  let auto = await page.evaluate(`(() => ({vis: document.querySelector('#vis')?.textContent?.trim(), status: document.querySelector('#loadStatus')?.textContent?.trim()}))()`);
+  console.log('AUTO default MIDI: vis=' + auto.vis, '| status=' + auto.status);
+  if (auto.vis?.replace(/\D/g, '') !== '1909') console.log('WARN: auto MIDI not showing 1909 notes (vis=' + auto.vis + ')');
+
+  // Now also load audio via file input to enable playback
   await page.setInputFiles('#audioFile', 'data/nakanori_instrumental.wav');
   await page.waitForSelector('#playBtn:not([disabled])', { timeout: 20000 });
-  console.log('PASS: MIDI+WAV loaded via file inputs, play enabled');
+  console.log('PASS: audio loaded via file input, play enabled');
 
   // start playback, let a couple markers be added via Enter
   await page.click('#playBtn');

diff --git a/dist/index.html b/dist/index.html
@@ -4,7 +4,7 @@
     <meta charset="UTF-8" />
     <meta name="viewport" content="width=device-width, initial-scale=1.0" />
     <title>Chord Analyzer</title>
-    <script type="module" crossorigin src="/assets/index-BP_HyOjn.js"></script>
+    <script type="module" crossorigin src="/assets/index-DIR23VNI.js"></script>
     <link rel="stylesheet" crossorigin href="/assets/index-Hzdkopi0.css">
   </head>
   <body>

diff --git a/docs/manual.md b/docs/manual.md
@@ -20,15 +20,18 @@ Web ブラウザで **http://localhost:5173/** を開きます。
 
 ### データファイルの読み込み
 
-起動直後はノートは表示されず、MIDI ファイルと音声ファイルを**どちらも**選択するまで待ちます。
+**起動直後から、内蔵のデフォルト MIDI（`./data/nakanori_mt3.mid`、1909ノート）が自動で読み込まれ、ノートが表示されます**（音声をまだ選んでいなければステータスに「音声未選択」）。
 
-1. トップバーの **♪ MIDI (.mid)** を押し、`.mid` / `.midi` ファイルを選ぶ。
-2. トップバーの **♫ 音声 (WAV/MP3)** を押し、対応する音声ファイル（WAV / MP3 / OGG / FLAC / M4A）を選ぶ。
+自分の曲に置き換える場合：
 
-MIDI だけ選んだ状態ではまだ読み込まれません。**MIDI と音声の両方**を選ぶと、その瞬間に読み込みとノート表示が開始されます。
+1. トップバーの **♪ MIDI** を押し、別の `.mid` / `.midi` ファイルを選ぶ（選ぶと即座にノート表示が置き換わる）。
+2. トップバーの **♫ 音声 (WAV/MP3)** を押し、音源ファイル（WAV / MP3 / OGG / FLAC / M4A）を選ぶ。
 
-- ステータス表示が「MIDI: ○○.mid · 音声: ○○.wav」のうち**両方の名前が出る**、または **Play ボタンが有効**になったら完了です。
-- 読み込みエラーはステータス表示に「読み込みエラー: …」と出ます。
+- MIDI と音声は**独立**に読み込まれます。MIDI を選んだら即座にノート表示が更新されます。
+- 音声を選ぶと **▶ Play** ボタンが有効になります。
+- エラー時は「MIDIエラー: …」/「音声エラー: …」と表示されます。
+
+**表示範囲**: ノート表示の縦方向は**そのMIDIの最高音〜最低音**に固定され、縦スクロールでこの範囲外へは移動できません。
 
 ---
 
@@ -179,13 +182,14 @@ Marker A ── Marker B ── Marker C
 ## 9. よく使う一連の流れ
 
 1. `npm run dev` で起動し、**http://localhost:5173/** を開く。
-2. **♪ MIDI** と **♫ 音声** の両方のファイルを選択し、読み込み完了（Play 有効）を待つ。
-3. （任意）トラックバーで解析対象以外のトラックを非表示にする。
-4. **▶ Play** で再生開始。
-5. コードが変わるタイミングで **Enter** を押して Marker を打つ。
-6. （任意）← / → で位置を微調整する。間違えたら **Ctrl+Z** で戻す。
-7. 必要に応じて **Quantize** の ON/OFF や分解能を切り替える。
-8. 隣接する Marker の間が **Chord Region** になる。
+2. デフォルト MIDI が自動表示される。必要なら **♪ MIDI** を押して別の曲に差し替える。
+3. **♫ 音声** のファイルを選び、**▶ Play** を有効にする。
+4. （任意）トラックバーで解析対象以外のトラックを非表示にする。
+5. **▶ Play** で再生開始。
+6. コードが変わるタイミングで **Enter** を押して Marker を打つ。
+7. （任意）← / → で位置を微調整する。間違えたら **Ctrl+Z** で戻す。
+8. 必要に応じて **Quantize** の ON/OFF や分解能を切り替える。
+9. 隣接する Marker の間が **Chord Region** になる。
 
 ---
 
@@ -194,8 +198,9 @@ Marker A ── Marker B ── Marker C
 | 現象 | 対処 |
 |---|---|
 | ブラウザに「No WebGL2」 | WebGL2 対応ブラウザ（最近の Chrome / Edge / Firefox）を使う |
-| ノートが表示されない | MIDI と音声の**両方**を選択していない可能性があります。両方選んでください |
-| Play ボタンが無効のまま | MIDI と音声の両方の読み込みが終わるまで待つ。ステータス表示に「読み込みエラー」が出ていないか確認 |
+| ノートが表示されない | デフォルトMIDIは自動表示される。表示されない場合は、**♪ MIDI** で `.mid` ファイルを選び直す。ステータスに「MIDIエラー」が出ていないか確認 |
+| Play ボタンが無効のまま | **♫ 音声** で音声ファイルを選択していない。ステータスに「音声エラー」が出ていないか確認 |
+| ノートの縦位置がずれる | 縦方向はMIDIの最高音〜最低音に固定される。範囲外には移動できない仕様 |
 | 音が出ない | ページをクリックしてから Play（自動再生制限）。OS ボリュームの確認。対応音声形式（WAV/MP3/OGG/FLAC/M4A）を使う |
 | キー操作が効かない | フォーカスが入力欄 / ドロップダウンに当たっていないか確認。ステージをクリックしてから操作 |
 
